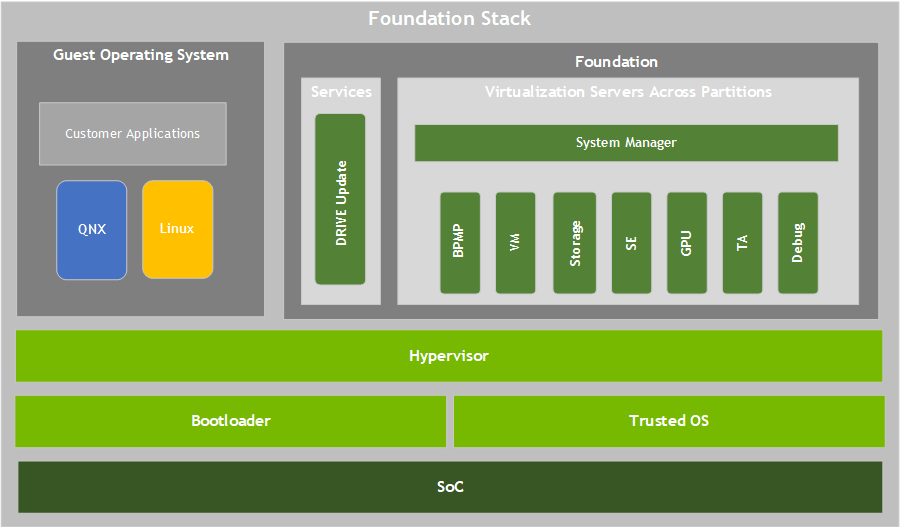
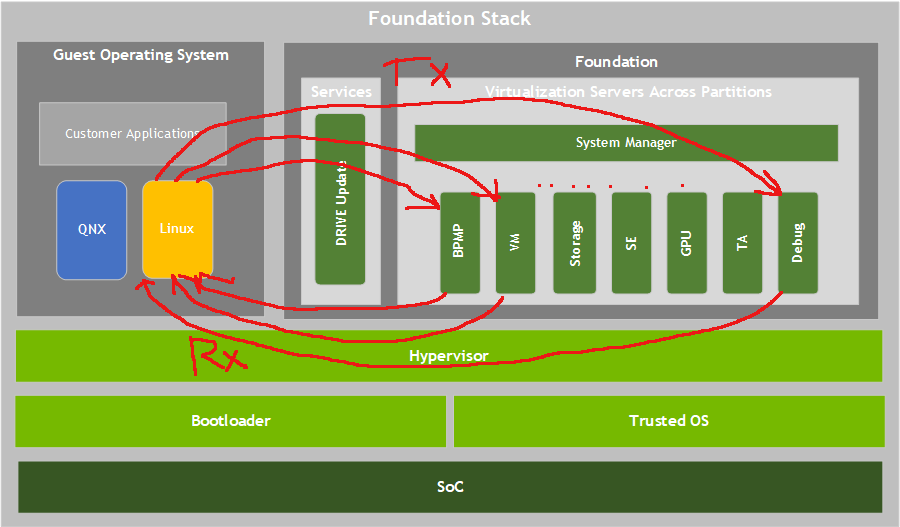
blog update

diff --git a/content/posts/tegra ivc teardown.md b/content/posts/tegra ivc teardown.md
@@ -32,8 +32,7 @@ counter of its own. That's the whole mechanism — two free-running counters and
 
 The shape that actually ships today, a dirty Linux guest full of who know what apps and an ostensibly safe set of peers trying to make sure the dirty Linux guest doesn't explode your car. In other words, a type-1 hypervisor whose entire partition set is frozen at build time by the **PCT** (Platform Configuration Table). Beside the single Linux guest sit roughly ten small **service partitions**. I do not know if each of these services is a `peer` in the sense of IVC but I will continue under that assumption.
 
-> [!danger] I have not RE'ed the Hypervisor, QNX, or any other services provided by DriveOS. Therefore it is only my inference from the design that these services are each a `peer`
-
+> [!danger] I have not RE'ed the Hypervisor, QNX, or any other services provided by DriveOS. Therefore it is only my inference from the design/docs that these services are each a `peer`
 
 ![DriveOS block diagram](/static/tegra_teardown/archi_foundation_image3.png)
 
@@ -375,7 +374,39 @@ A sharp contrast with IVC. Xen's analogue of the over-full condition is a protoc
 A per-event-channel count of spurious notifications, doubling the delay before re-enabling the interrupt, capped at HZ, and reset to zero the moment a notification turns out to be real. 
 
 Nice! My geometric backoff idea does work for a hypervisor. They have some real defense-in-depth though.
+#### The patch
+There are a lot of open questions since I have not looked at the hypervisor(s), for this issue in particular the question is: Does the hypervisor enforce some usage limit that prevents a DoS accross the SoC? My educated guess is to say that some of them might, most likely the newer implementations (IGX Thor). However, this doesn't prevent a victim guest from hot looping with any resource its allow from the hypervisor preventing communication with any other peer. 
 
+The least invasive way I thought to do this is via the geometric backoff. So here is the patch:
+```c
+ void tegra_ivc_reset(struct tegra_ivc *ivc)
+ {
+        unsigned int offset = offsetof(struct tegra_ivc_header, tx.count);
+ 
++       tegra_ivc_resync_restart(ivc);
++
+        tegra_ivc_header_write_field(&ivc->tx.map, tx.state, TEGRA_IVC_STATE_SYNC);
+        tegra_ivc_flush(ivc, ivc->tx.phys + offset);
+        ivc->notify(ivc, ivc->notify_data);
+        
+@@ -546,6 +664,18 @@ int tegra_ivc_notified(struct tegra_ivc *ivc)
+        }
+ 
++       if (tegra_ivc_header_read_field(&ivc->tx.map, tx.state) != tx_state)
++               tegra_ivc_resync_restart(ivc);
++       else if (tx_state != TEGRA_IVC_STATE_ESTABLISHED)
++               tegra_ivc_resync_wait(ivc);
++
+        if (tx_state != TEGRA_IVC_STATE_ESTABLISHED)
+                return -EAGAIN;
+
+```
+
+Two functions are created `tegra_ivc_resync_restart` and `tegra_ivc_resync_wait`. No change in state -> start the backoff, change in state -> reset the backoff. 
+
+As I started looking at how to patch this I realized there were more opertunites to hot loop. So I made the patch more generic than what I started with, originally it keyed off of only the SYNC state. 
+
+As a side note this patch also made fuzzing work a bit better. With the hot loop spinning at 1.5 M iterations/s the LKL thread pegged the core and the symbolizer subprocess couldn't make progress on a crash dump. With the backoff armed the loop sits in a bounded wait with `cpu_relax()`, the symbolizer gets CPU, the backtrace completes.
 # Close
 
 It is clear that as far as IPC/IVC goes the design decisions made here about as far as you can get from Binder. This has its pros and cons in that the actual IVC implementation attack surface is tiny, a count and a state, that's about it. This could be a deliberate call in that if you have multiple disparate OSs (e.g. Linux and QNX) the contract you need to adhere to is correspondingly tiny. 
